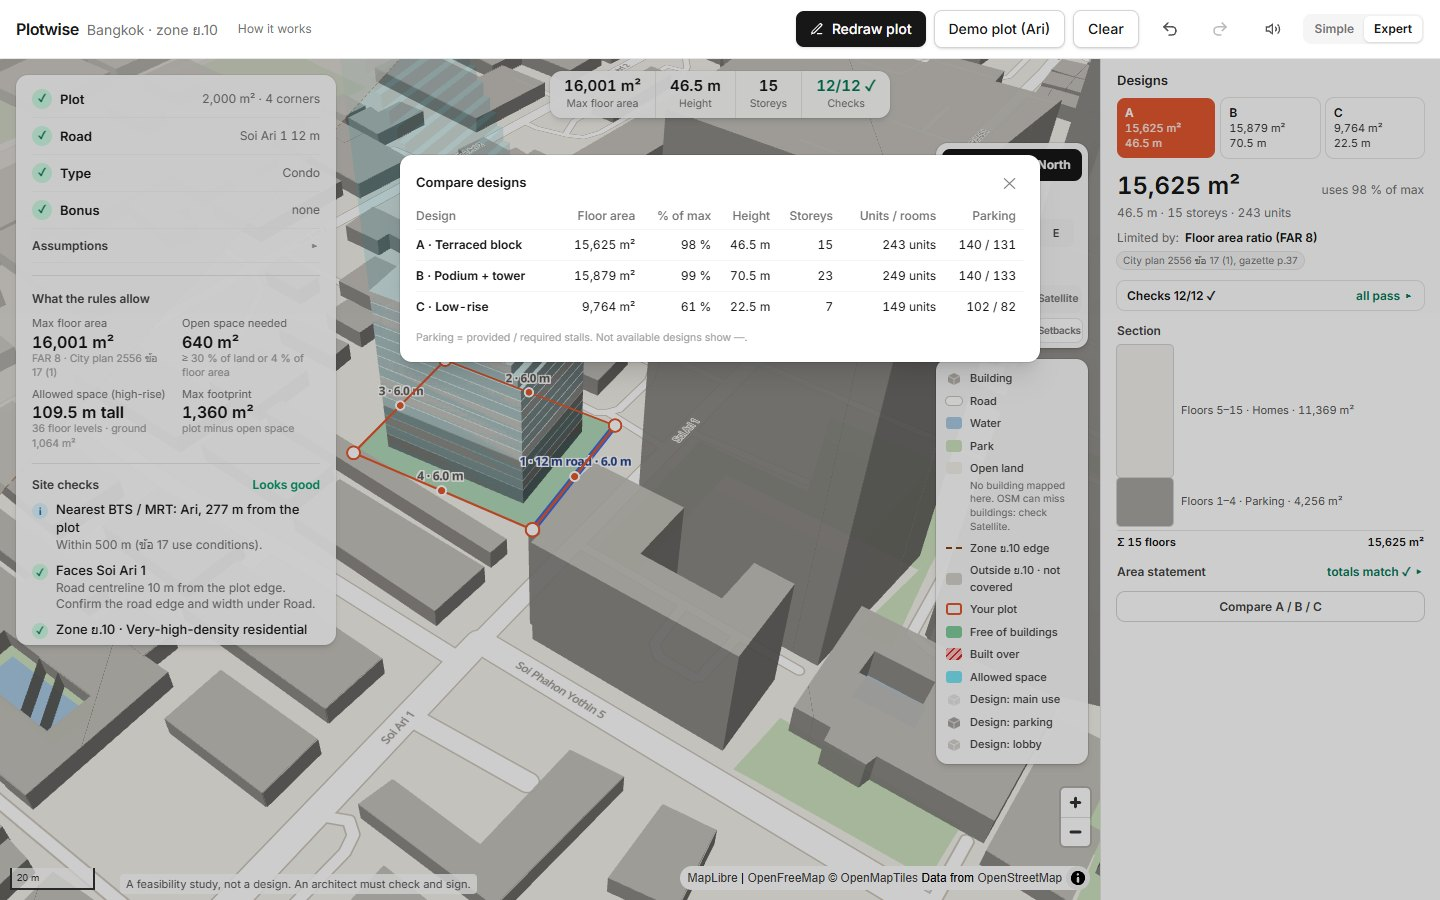
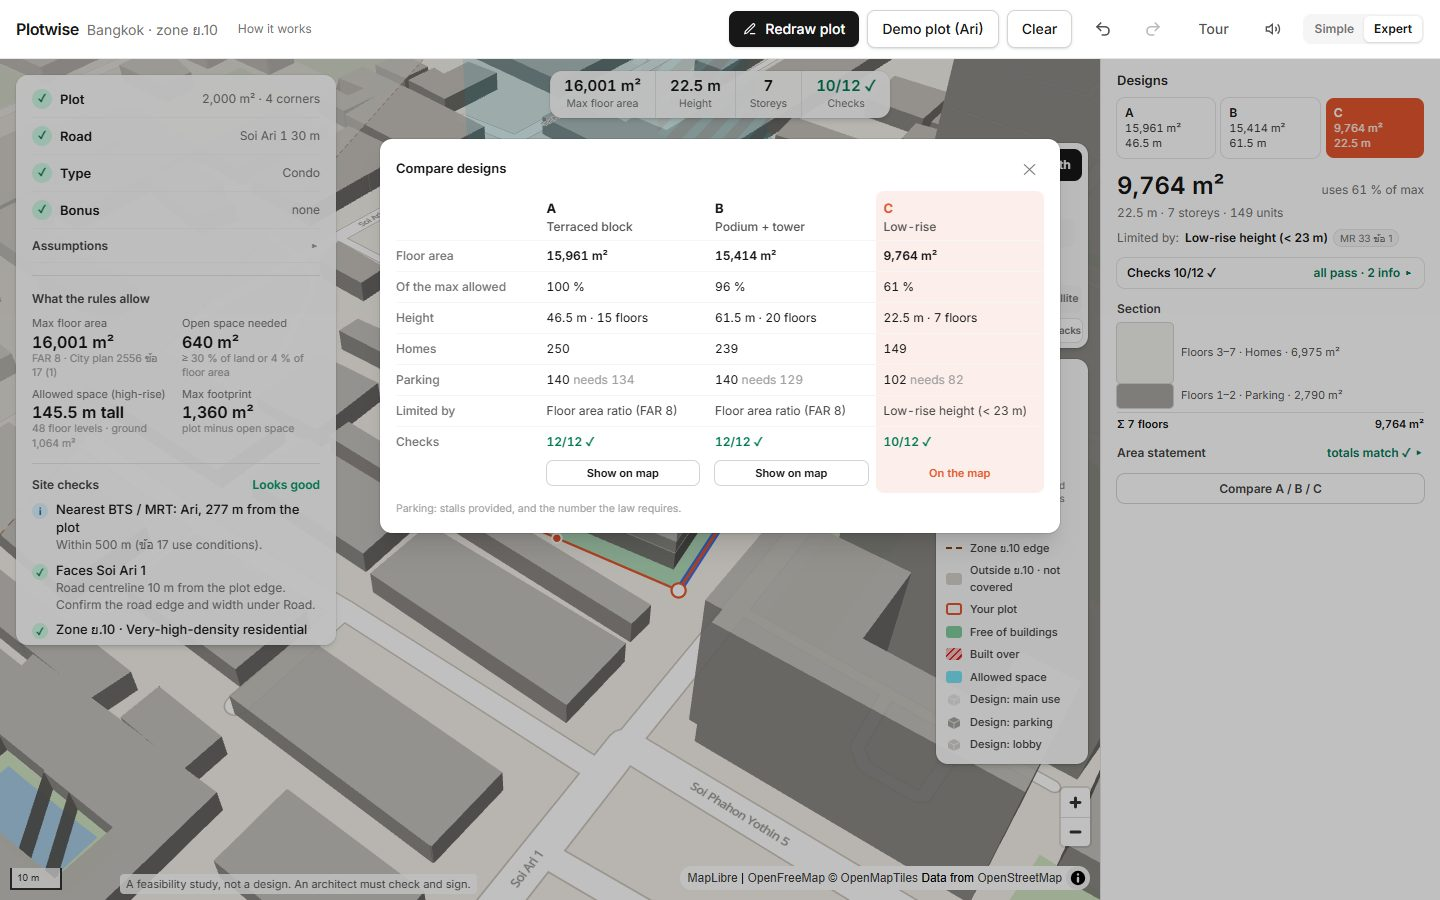
Docs: README and screenshots for the feedback round
- README: live link, guided tour, Try it links, new screenshots (landing,
  tour desktop + phone, Expert on a phone) and the new Compare.
- app/README, CLAUDE.md (tour, landing files, 116 tests, tour-lot gap),
  PROGRESS.md (feedback-round summary on top).

diff --git a/CLAUDE.md b/CLAUDE.md
@@ -4,9 +4,11 @@
 - Draw a plot on the map and mark its road side(s).
 - Pick Condo, Office or Hotel.
 - The app shows, live: the rules that apply (with clause sources), the 3D allowed space (envelope), three designs, and a 12-row pass/fail checklist per design.
+- A guided tour (on request only) walks first-time users from an empty lot to the designs.
 
 **State (2026-11-20):** v1 is feature-complete.
 - Building phase is over. Sessions from now on: understand, test, debug, fix bugs. **No new features unless Amitesh asks.**
+- Feedback round (20 Nov evening, Amitesh asked for each): landing page restyled, Expert phone layout (tabbed bottom sheet), Compare rebuilt, guided tour, road-edge naming fix. Work goes on branch `feedback-fixes`, fast-forwarded into `main` when Amitesh says push. See `PROGRESS.md` and the "(fix)" rows in `DEVIATIONS.md`.
 - Live: https://plotwise-nu.vercel.app (Vercel, root dir `app`, auto-deploys on push).
 - Repo: https://github.com/DevDesignAmitesh/kush-assignment.
 - Deadline: **2026-11-21 09:19 UTC** (14:49 IST). Check with the `time_left` MCP tool (general-machines), using the email the assignment was started with; ask Amitesh for it.
@@ -15,8 +17,8 @@
 ```bash
 cd app
 bun install
-bun run dev            # http://localhost:3000/tool?demo=1   (add #mode=expert for Expert mode)
-bun run test           # vitest, 115 tests (engine, checker, designs, UI logic)
+bun run dev            # http://localhost:3000/tool?demo=1   (add #mode=expert for Expert mode; /tool?tour=1 starts the tour)
+bun run test           # vitest, 116 tests (engine, checker, designs, site checks, UI logic)
 bun run lint
 bun run build && bun run start   # production build; add ?perf=1 to log engine timings in window.__plotwisePerf
 ```
@@ -32,8 +34,8 @@ bun run build && bun run start   # production build; add ?perf=1 to log engine t
 | `EXPECTATIONS.md` | Definition of done per spec section; golden numbers (§D); break-it table (§I) |
 | `DEVIATIONS.md` | Every change from the plan, with the reason. **Check here before calling something a bug:** it may be a decision |
 | `research/DESIGN_DIRECTION.md` | UI direction: "proof on the model", Simple vs Expert modes, screen budget, performance budgets |
-| `research/AI_MISSES_LOG.md` | 41 mistakes the AI made and how each was caught (material for the submission doc) |
-| `PROGRESS.md` | The last status report from the build session (14:15 IST, 20 Nov) |
+| `research/AI_MISSES_LOG.md` | 47 mistakes the AI made and how each was caught (material for the submission doc) |
+| `PROGRESS.md` | The last status report from the build session (14:15 IST, 20 Nov), plus the feedback round on top |
 | `ASSIGNMENT_BRIEF.md`, `ASSIGNMENT_DESCRIPTION.md` | The brief and role text. Local only (gitignored): don't publish them |
 
 ## Architecture
@@ -67,13 +69,13 @@ No React, DOM or MapLibre imports. Every rule number comes from `rules/bangkok-y
 ### The rest of `app/src/`
 | Path | Role |
 |---|---|
-| `app/page.tsx` | Landing page `/` |
+| `app/page.tsx`, `app/LandingList.tsx` | Landing page `/` (layout after skill-issue.in; Geist + Instrument Serif on this page only) and its filterable feature list |
 | `app/tool/page.tsx` | The tool at `/tool` |
 | `app/ClientShell.tsx` | Main client component: modes, layout, wiring store ↔ engine ↔ map |
-| `store.ts` | zustand: plot, road edges, type, bonuses, assumptions, map mode/layers, undo history (50) |
+| `store.ts` | zustand: plot, road edges, type, bonuses, assumptions, map mode/layers, undo history (50), `tourStep` |
 | `map/MapView.tsx`, `map/layers.ts` | Map, drawing, all sources/layers/colours (Simple / Detailed / Satellite styles) |
 | `site/engineClient.ts` | Worker orchestration; `tileContext.ts` OSM context from tiles; `stations.ts`, `zones.ts` data loading |
-| `ui/` | `Simple.tsx` (Simple mode), `ExpertSteps.tsx` (Expert inputs), `DesignPanel.tsx` (pills, checks, section, area table, Compare), `scenario.ts` (URL hash share), `roadGroups.ts`, `Legend`, `ViewControl`, `StepGuide`, `Toast`, `sound.ts` |
+| `ui/` | `Simple.tsx` (Simple mode), `ExpertSteps.tsx` (Expert inputs), `DesignPanel.tsx` (pills, checks, section, area table, Compare: one column per design), `Tour.tsx` (guided tour: steps, `TOUR_LOT`, hand overlay; targets carry `data-tour`), `scenario.ts` (URL hash share), `roadGroups.ts`, `Legend`, `ViewControl`, `StepGuide`, `Toast`, `sound.ts` |
 | `public/data/` | `bkk-zoning-2556.geojson` (498 BMA zones), `bkk-rail-stations.geojson` (built by `bun run data:stations`) |
 | `tests/` | vitest. Golden numbers are in `engine.test.ts`; 200-random-plot test in `designs.test.ts` |
 
@@ -98,3 +100,4 @@ No React, DOM or MapLibre imports. Every rule number comes from `rules/bangkok-y
 - Station classes follow a sourced allowlist.
 - Expert on phones: one bottom sheet with Inputs / Designs tabs (not both at once); Simple is the main phone mode.
 - 10 ha plots are unmeasured on real hardware.
+- The tour lot (`TOUR_LOT`) is fixed: it was empty in the OSM tiles on 20 Nov. If OSM maps a building there, pick a new lot (the site check must say "Looks good").

diff --git a/README.md b/README.md
@@ -1,28 +1,41 @@
 # Plotwise: Bangkok plot feasibility (zone ย.10)
 
+**Live:** https://plotwise-nu.vercel.app
+
 Draw a plot in Bangkok's ย.10 zone, mark the road side, pick a building type, and see live:
 - the rules that apply, each with its clause and source;
 - the 3D space the law allows (the envelope);
 - three designs (terraced block, podium + tower, low-rise), each with a 12-row pass/fail checklist measured independently of the generator;
 - the real buildings and roads around the site.
 
-Simple mode explains the result in plain words; Expert mode shows every check, clause and floor.
+Simple mode explains the result in plain words; Expert mode shows every check, clause and floor. First time? The **guided tour** flies you to an empty lot and walks you through drawing a plot, step by step.
 
 > A feasibility study, not a design. An architect must check and sign.
 
 ## Screenshots
 | | |
 |---|---|
+| ![Landing page](docs/screenshots/0-landing.jpg) **Landing page**: what the tool does, filterable by input, rules, designs and modes | ![Guided tour: tap the corners](docs/screenshots/7-tour.jpg) **Guided tour**: an empty lot near Ari, a hand on each corner to tap, Back / Next / Skip |
 | ![Simple mode, demo plot on a 12 m road](docs/screenshots/1-simple-demo.jpg) **Simple**: demo plot on a 12 m soi, plain verdict and three numbers | ![Simple mode, 8 m road](docs/screenshots/2-simple-w8-amber.jpg) **8 m road**: high-rise not allowed, low-rise only, and what a wider road would give |
-| ![Expert mode with a check proven on the model](docs/screenshots/3-expert-proof.jpg) **Expert**: 12 checks with clauses; the clicked check (height vs road width) is shown in amber on the model | ![Comparing designs A, B and C](docs/screenshots/4-compare.jpg) **Compare** the three designs |
-| ![Area statement per floor](docs/screenshots/5-area-statement.jpg) **Area statement**: floor rows, design card and the FAR check's own measurement agree | ![Simple mode on a phone](docs/screenshots/6-phone.jpg) **Phone** (390 px) |
+| ![Expert mode with a check proven on the model](docs/screenshots/3-expert-proof.jpg) **Expert**: 12 checks with clauses; the clicked check (height vs road width) is shown in amber on the model | ![Comparing designs A, B and C](docs/screenshots/4-compare.jpg) **Compare** A / B / C side by side: floor area, height, homes, parking, what limits each, checks; "Show on map" picks one |
+| ![Area statement per floor](docs/screenshots/5-area-statement.jpg) **Area statement**: floor rows, design card and the FAR check's own measurement agree | ![Simple mode on a phone](docs/screenshots/6-phone.jpg) **Phone, Simple** (390 px) |
+
+| Phone: guided tour | Phone: Expert |
+|---|---|
+| <img src="docs/screenshots/8-tour-phone.jpg" alt="Guided tour on a phone" width="300"> | <img src="docs/screenshots/9-expert-phone.jpg" alt="Expert mode on a phone with the Inputs / Designs sheet" width="300"> |
+| The same tour at 390 px | The map above one bottom sheet with **Inputs / Designs** tabs (Hide gives the whole screen to the map) |
+
+## Try it
+- **Demo plot:** https://plotwise-nu.vercel.app/tool?demo=1 (add `#mode=expert` for Expert mode).
+- **Guided tour:** https://plotwise-nu.vercel.app/tool?tour=1, or the **Tour** button (**?** on phones) in the tool.
+- **Share a scenario:** the page link holds the whole scenario (plot, roads, type, bonuses, assumptions), so copying it shares exactly what you see.
 
 ## Run locally
 ```bash
 cd app
 bun install
-bun run dev        # http://localhost:3000/tool?demo=1
-bun run test       # vitest (engine, checker, designs)
+bun run dev        # http://localhost:3000/tool?demo=1   (?tour=1 starts the tour)
+bun run test       # vitest (engine, checker, designs, site checks, UI logic)
 bun run build && bun run start
 ```
 
@@ -30,8 +43,9 @@ bun run build && bun run start
 | Path | What |
 |---|---|
 | `app/` | Next.js app (TypeScript, Tailwind, MapLibre GL, terra-draw, zustand) |
-| `app/src/engine/` | Pure TypeScript engine: geometry, setbacks, envelope, designs, checker |
+| `app/src/engine/` | Pure TypeScript engine: geometry, setbacks, envelope, designs, checker, site checks |
 | `app/src/rules/bangkok-y10.json` | Every rule number used by the engine, with sources |
+| `app/src/ui/` | Simple and Expert panels, Compare, the guided tour (`Tour.tsx`) |
 | `research/RULES.md` | The law for ย.10 in plain English, with clause and page citations |
 | `research/AI_MISSES_LOG.md` | Mistakes the AI made during the build and how they were caught |
 | `BUILD_PLAN.md`, `EXPECTATIONS.md`, `DEVIATIONS.md` | The spec, the definition of done, and every change from the spec |

diff --git a/PROGRESS.md b/PROGRESS.md
@@ -1,5 +1,26 @@
 # PROGRESS.md: status report for the planning session
 
+## Feedback round (20 Nov, evening)
+
+Amitesh's feedback after v1, each item fixed, checked and pushed on his word (branch `feedback-fixes`, fast-forwarded into `main`, Vercel auto-deploy, checked on the live site):
+
+| Feedback | Result | Commit |
+|---|---|---|
+| Landing page should say what the app does, to the point | Copy rewritten; "Coming next" badges removed (all 4 steps were live) | `e134e16` |
+| Expert mode fills the whole phone screen | One bottom sheet (45 %) with Inputs / Designs tabs and Hide; 2-row header; map framing uses the whole map | `e134e16` |
+| Fix the Compare screen | One column per design; reason shown for a design that can't be built; checks, "limited by", "Show on map"; bottom sheet on phones | `d014795` |
+| Landing page in skill-issue.in's layout and styling | Framed card, dark hero with italic serif title, filter pills, row cards; own content and art | `d014795` |
+| Guided tour for first-time users | 10 steps, only on request (Tour / "?" button, `/tool?tour=1`): fly to an empty lot, Draw, a hand on each corner, road, verdict, model, Expert designs, Compare | `153a363` |
+| (found by the tour) | Road-edge name came from a cross street at junctions ("Soi Ari" for Phahon Yothin Road); fixed with a regression test | `153a363` |
+
+- **Verified:** 116 tests, lint, typecheck and build pass. Headless Chrome on the dev server and the production build, desktop (1440 px) and phone (390 px); the full tour ran end to end with real mouse events, also on the live site. No page errors.
+- **Screenshots:** `docs/screenshots/0-landing.jpg`, `7-tour.jpg`, `8-tour-phone.jpg`, `9-expert-phone.jpg` added and `4-compare.jpg` replaced (production build); README updated.
+- **Out of date below:** §6 "Expert on a phone: still little map" (fixed above).
+- **AI misses logged:** #42-#47.
+
+---
+
+
 Generated 2026-11-20 14:15 IST. Round: **planning review 12:15, decisions 1-5** (H.3 cut, H.2 toggles, editable assumptions, M5 polish, M7 screenshots). Evidence comes from fresh `test` / `lint` / `build` runs at **14:08**, a **clean-copy build at 14:12** (only files git would commit: `git ls-files -co --exclude-standard`, fresh `bun install --frozen-lockfile`), and headless Chrome on `http://localhost:3000` (dev server 13:40-13:55, production build 13:58-14:10). Overwritten each time. Not deployed, not pushed. The planning session's repo prep (root `.gitignore`, `README.md`, `research/sources/README.md`, CLAUDE.md hosting rule) is kept; README files were only added to.
 
 **Clock:** 24 h 35 m left at 14:14 IST (deadline 2026-11-21 09:19 UTC).

diff --git a/app/README.md b/app/README.md
@@ -3,7 +3,8 @@
 Draw a plot in zone ย.10 (Bangkok), set the road width, pick a building type. The engine computes what the
 rules allow (floor area, allowed space, setbacks, parking) and three designs, and an independent checker
 measures each design against 12 rules. **Simple** mode gives a verdict in plain words; **Expert** shows the
-checks with clause citations and the proof on the 3D model.
+checks with clause citations and the proof on the 3D model. A **guided tour** (only on request: the Tour
+button, or `/tool?tour=1`) walks a first-time user from an empty lot to the three designs.
 
 A feasibility study, not a design. An architect must check and sign.
 
@@ -11,7 +12,7 @@ A feasibility study, not a design. An architect must check and sign.
 
 ```powershell
 bun install
-bun run dev                 # http://localhost:3000/tool?demo=1   (#mode=expert for Expert)
+bun run dev                 # http://localhost:3000/tool?demo=1   (#mode=expert for Expert, ?tour=1 for the tour)
 bun run test; bun run lint; bun run build
 bun run data:stations       # rebuild public/data/bkk-rail-stations.geojson
 ```
@@ -24,7 +25,9 @@ bun run data:stations       # rebuild public/data/bkk-rail-stations.geojson
   helpers (units, density, verdict / what-ifs), Web Worker entry.
 - `src/site`: tile-based site context, engine worker client (latest job wins).
 - `src/map`: MapLibre + terra-draw view and layers.
-- `src/ui`: Simple and Expert panels.
+- `src/ui`: Simple and Expert panels, Compare (`DesignPanel.tsx`), guided tour (`Tour.tsx`: steps, the
+  empty tour lot `TOUR_LOT`, the hand overlay on the map).
+- `src/app`: landing page (`page.tsx`, `LandingList.tsx`), the tool (`tool/page.tsx`, `ClientShell.tsx`).
 
 ## Next (not in v1)
 
